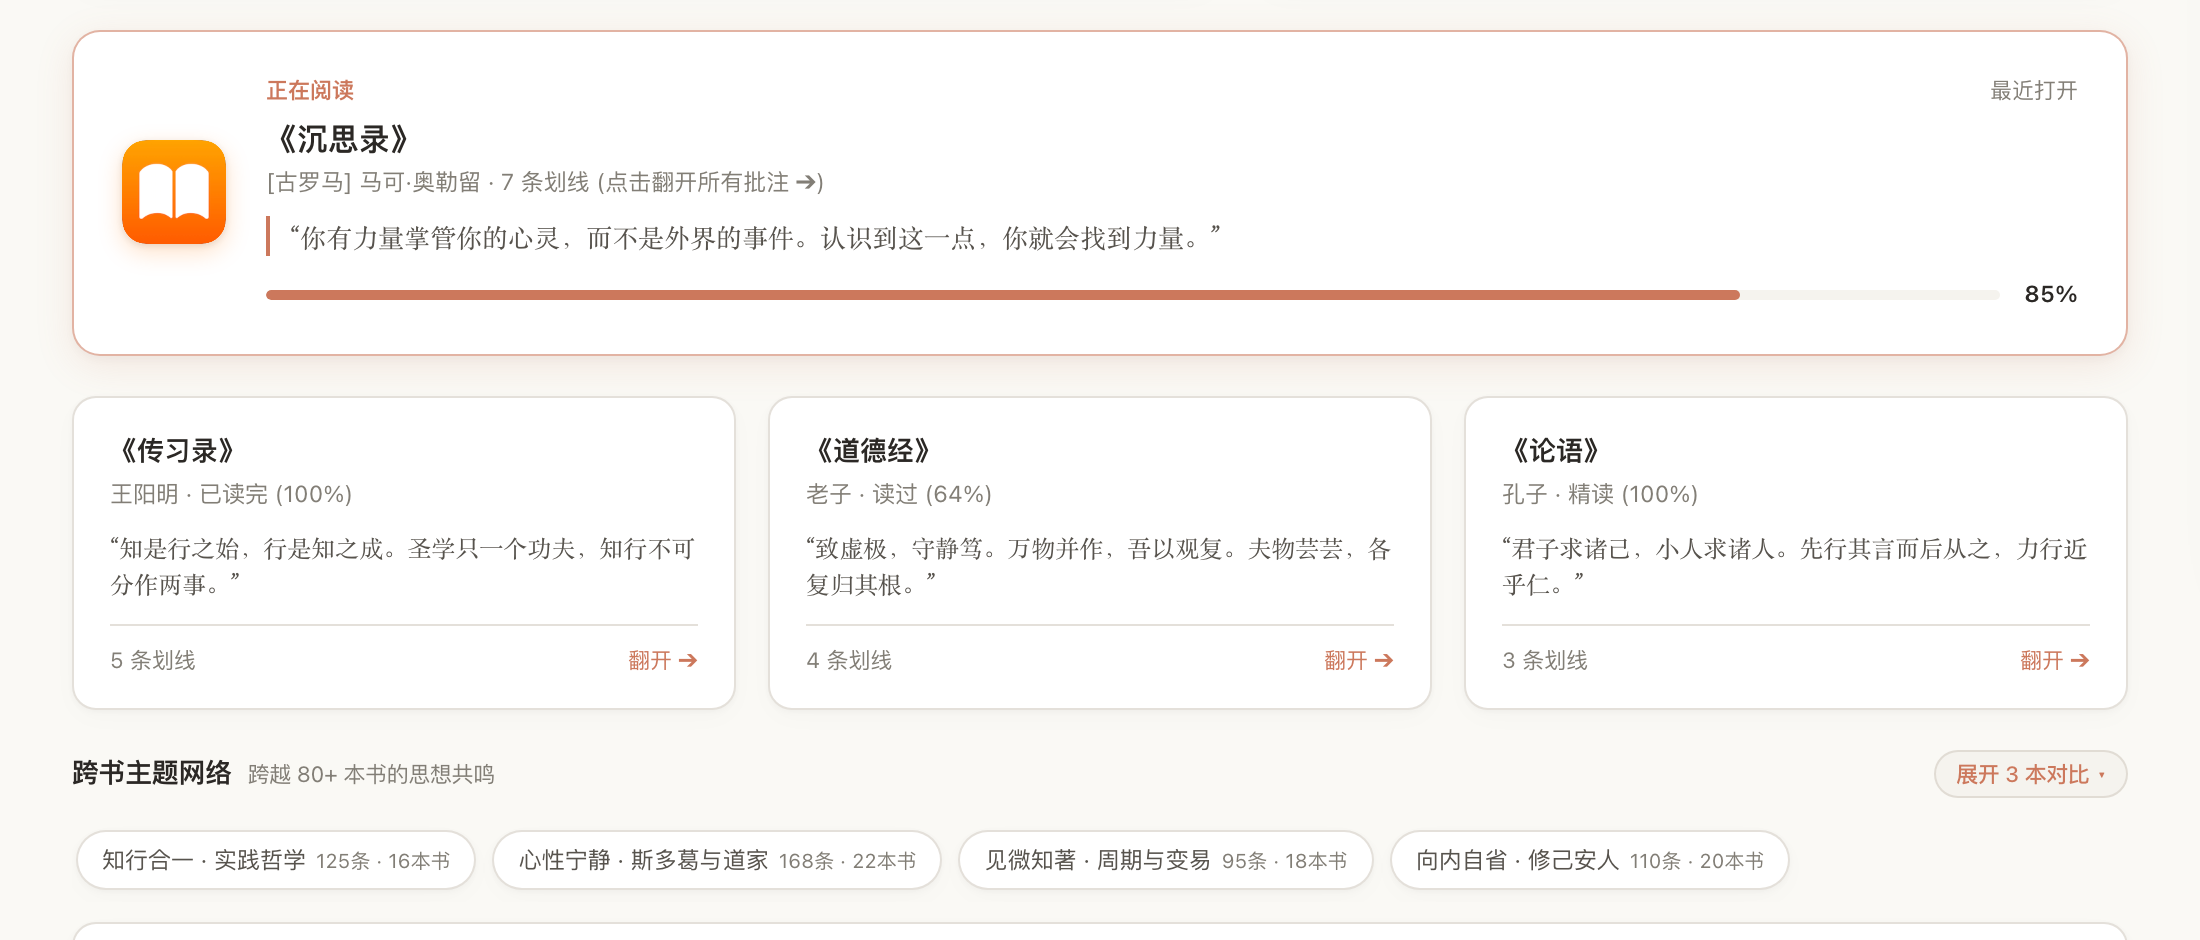
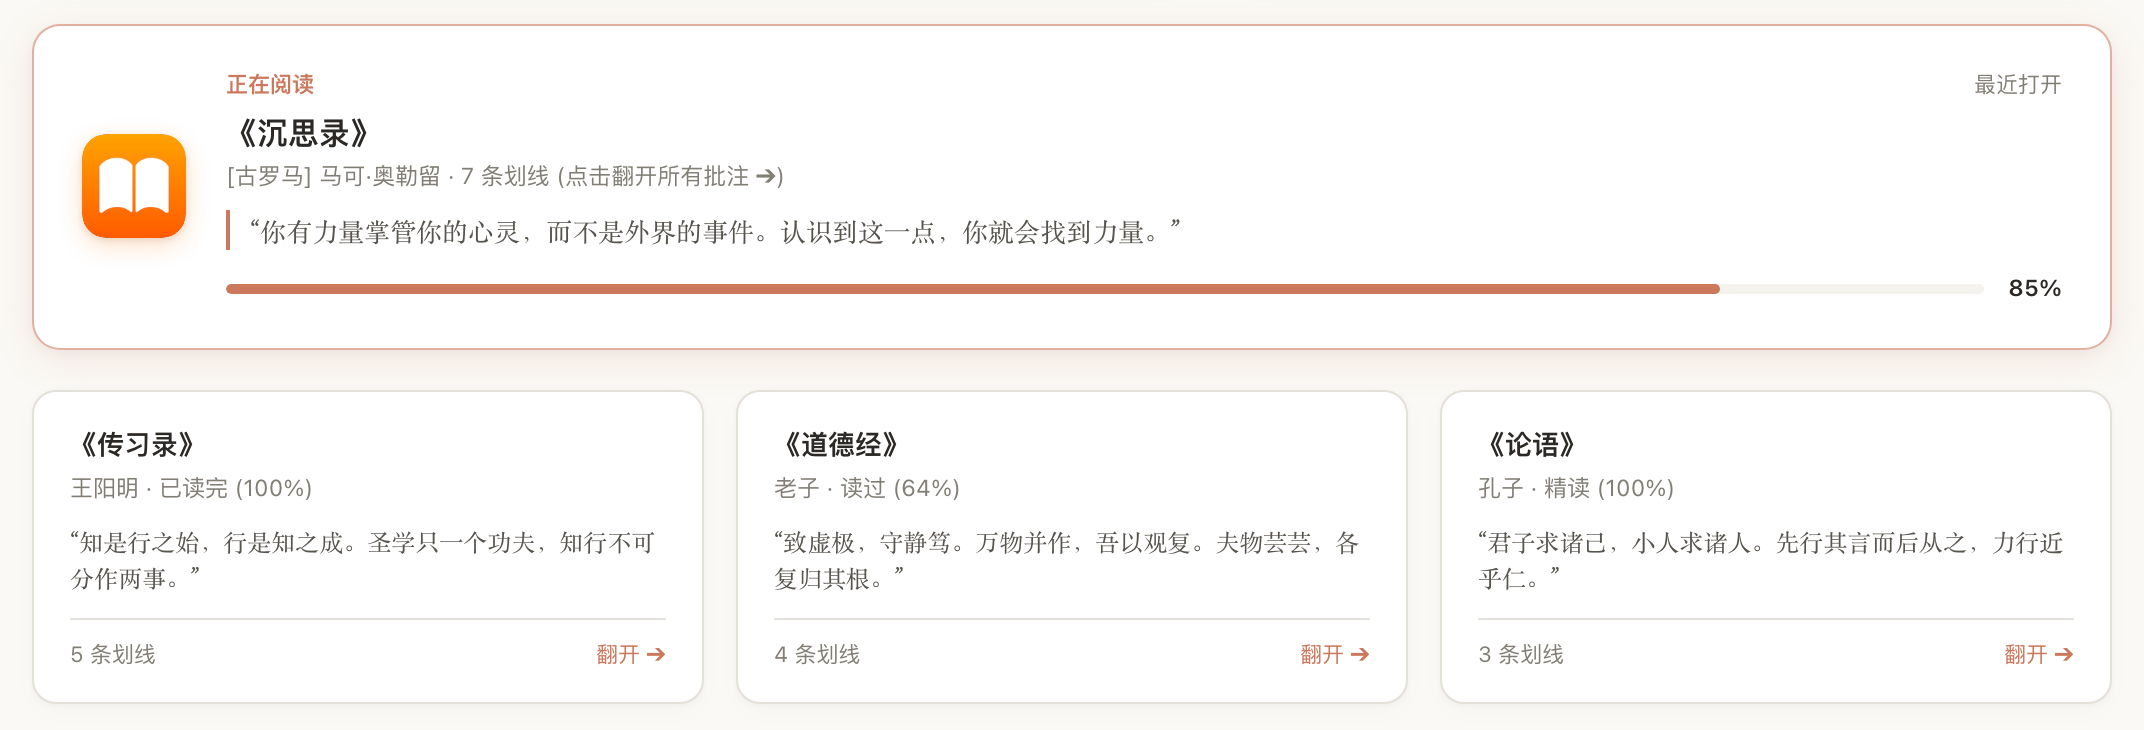
docs: audit and update all screenshots with universal public-domain classics

diff --git a/dashboard/demo.html b/dashboard/demo.html
@@ -1641,7 +1641,7 @@
         </div>
 
         <!-- ================= 2. 正在阅读 (STANDARDIZED BOOK CARD) ================= -->
-        <div class="spotlight-card" onclick="openBookDrawer('JINGANG')" data-book-key="JINGANG">
+        <div class="spotlight-card" onclick="openBookDrawer('MEDITATIONS')" data-book-key="MEDITATIONS">
             <div class="apple-books-app-icon" title="来源：Apple Books">
[1 lines of base64/hex data omitted]
             </div>
@@ -1736,11 +1736,11 @@
             <!-- Featured Resonance Banner (Compact default view) -->
             <div class="concept-featured-banner" id="conceptFeaturedBanner" onclick="toggleConceptExpansion()">
                 <div class="cfb-lead">
-                    <span class="cfb-badge" id="cfbBadge">放下与破执 · 共鸣金句</span>
-                    <span class="cfb-source" id="cfbSource">《金剛經白話講座》· 王思迅</span>
+                    <span class="cfb-badge" id="cfbBadge">知行合一 · 共鸣金句</span>
+                    <span class="cfb-source" id="cfbSource">《传习录》· 王阳明</span>
                 </div>
                 <div class="cfb-quote serif" id="cfbQuote">
-                    “你有力量掌管你的心灵，而不是外界的事件。认识到这一点，你就会找到力量。”
+                    “知是行之始，行是知之成。圣学只一个功夫，知行不可分作两事。”
                 </div>
             </div>
 
@@ -2569,7 +2569,7 @@ ${quotesText}
         }
 
         // --- Cross-Book Concept Network ---
-        let currentConceptId = 'detachment';
+        let currentConceptId = 'action_practice';
 
         function renderConceptPills() {
             const list = DATA.concept_clusters || [];
